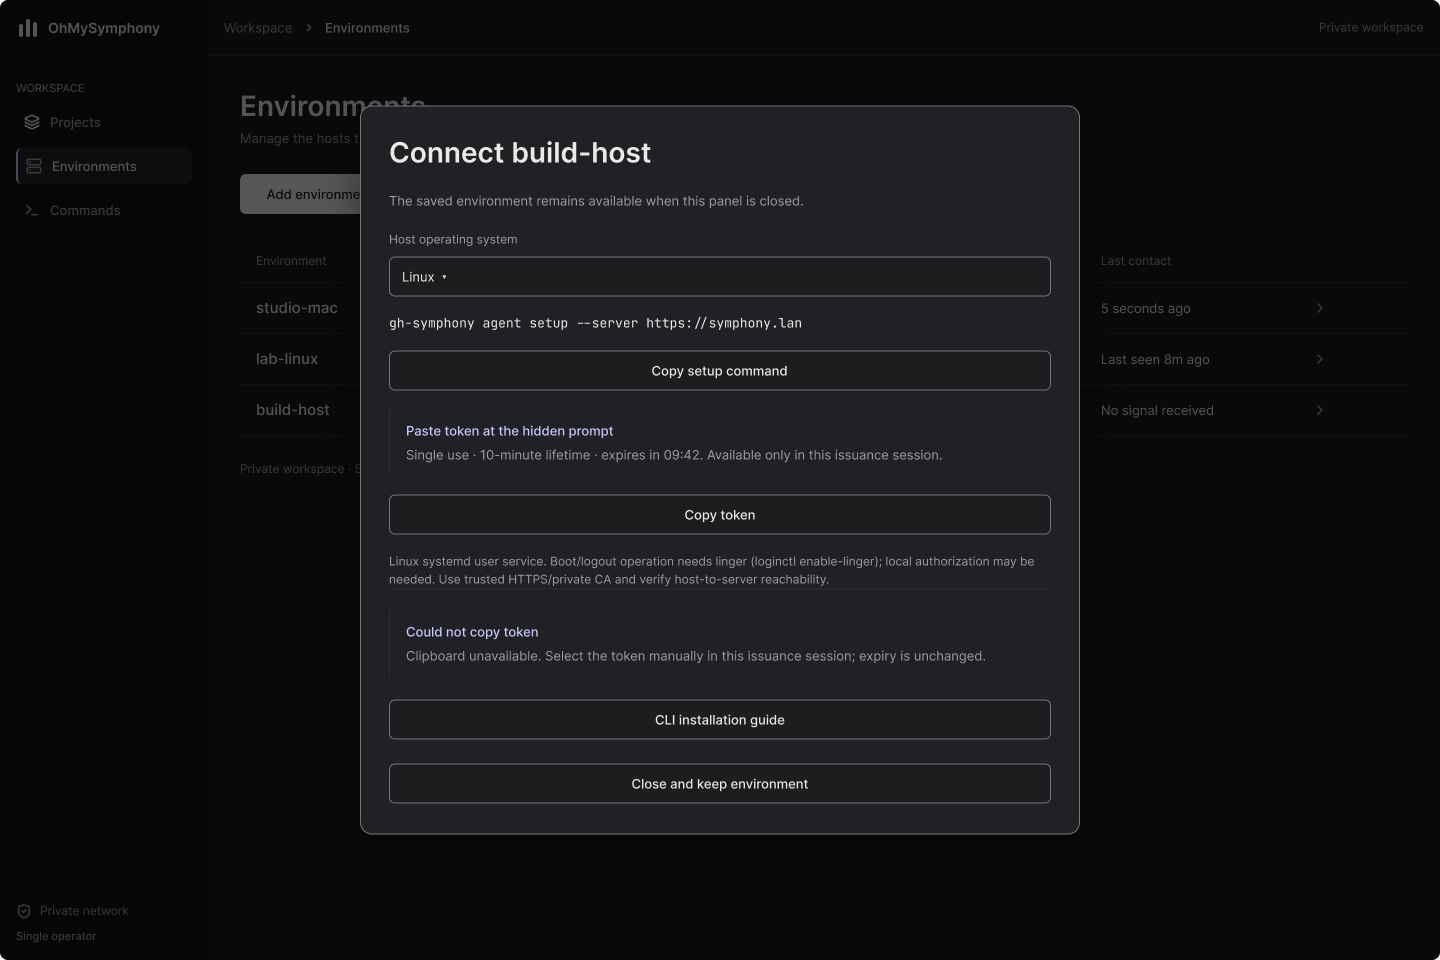
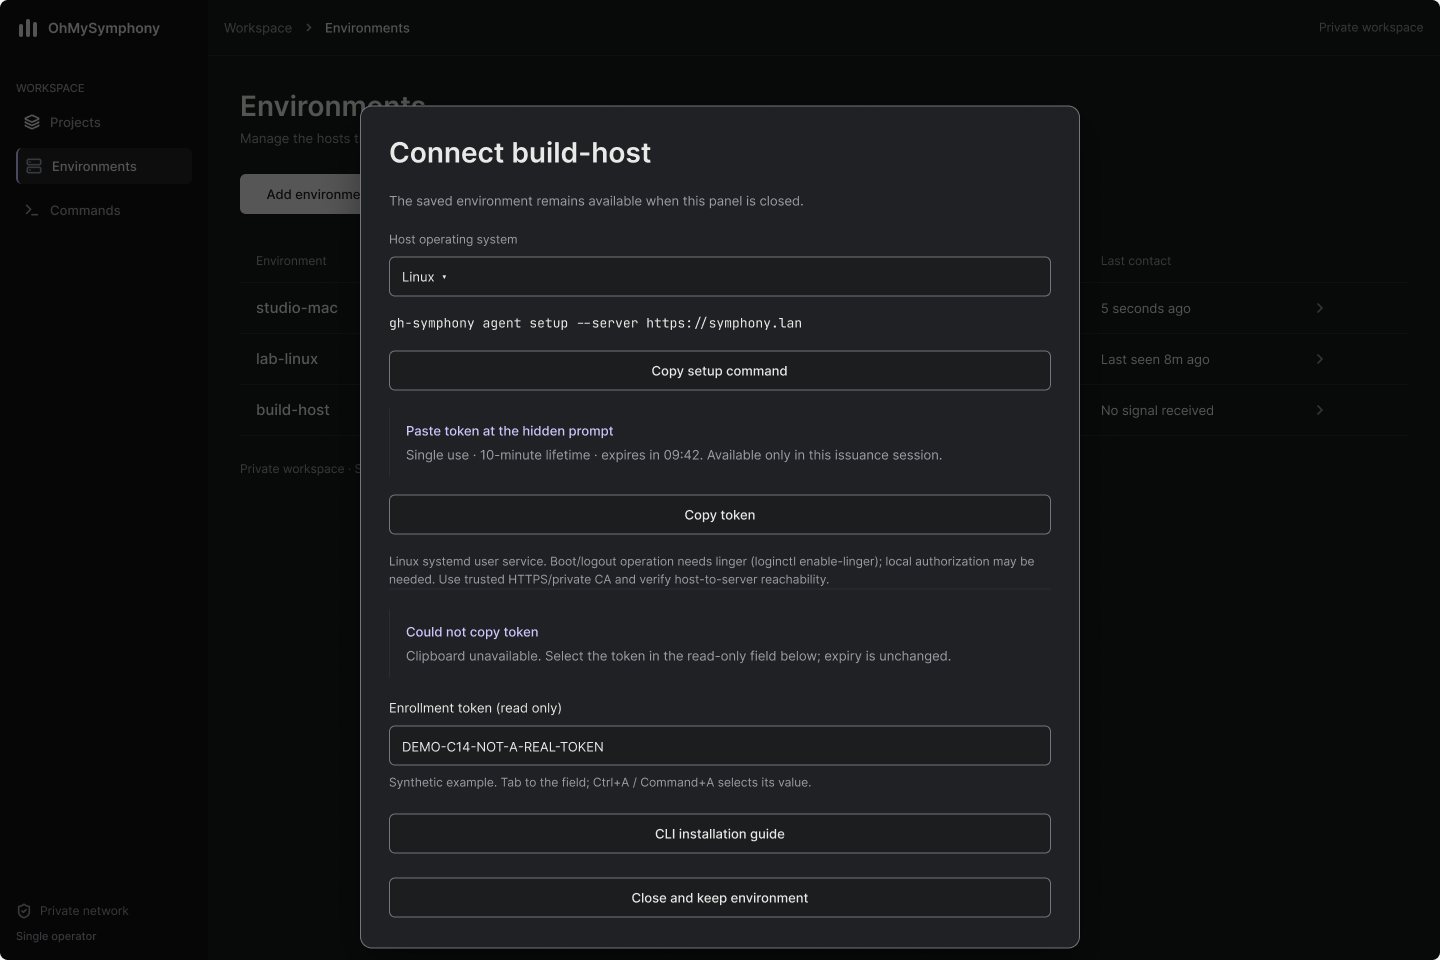
fix(c14): add manual token recovery design

Changed region(s): [[0.25, 0.7188, 0.75, 1.0], [0.4688, 0.6562, 0.6875, 0.6875]]

diff --git a/docs/designs/c14/interaction-contracts.test.ts b/docs/designs/c14/interaction-contracts.test.ts
@@ -19,8 +19,16 @@ interface Screen {
   width: number;
   text: string;
   edges: Edge[];
-  controls: { width: number; height: number }[];
+  controls: { id: string; width: number; height: number }[];
   annotations: { label: string }[];
+  recoveryField?: {
+    id: string;
+    name: string;
+    width: number;
+    height: number;
+    text: string;
+    annotations: { label: string }[];
+  };
 }
 const manifest = JSON.parse(
   readFileSync(new URL("./prototype-evidence.json", import.meta.url), "utf8")
@@ -33,7 +41,11 @@ const screen = (key: string): Screen => {
 };
 const matches = (edge: Edge, event: PrototypeEvent): boolean => {
   if (event.kind === "click") {
-    return edge.trigger.type === "ON_CLICK" && edge.label === event.label;
+    return (
+      edge.trigger.type === "ON_CLICK" &&
+      edge.label === event.label &&
+      (!event.source || edge.source === event.source)
+    );
   }
   if (event.kind === "key") {
     return (
@@ -151,4 +163,34 @@ test("token absence, zero-project success, disabled safety and retained unknown 
     screen("Commands and recovery/start-succeeded").text,
     /running verified/
   );
+});
+
+// Checks actual Figma readback; browser selection/readonly semantics remain a UI gate.
+test("clipboard failure has a labelled synthetic manual token selection surface", () => {
+  const failure = screen("Environments/copy-failure");
+  const field = failure.recoveryField;
+  assert.ok(field, "copy failure must render a token recovery field");
+  assert.equal(field.name, "Component/Field/EnrollmentTokenReadonly");
+  assert.ok(
+    failure.controls.some((control) => control.id === field.id),
+    "recovery field must be present in exported visible controls"
+  );
+  assert.match(failure.text, /Enrollment token \(read only\)/);
+  assert.match(failure.text, /DEMO-C14-NOT-A-REAL-TOKEN/);
+  assert.match(field.text, /Ctrl\+A \/ Command\+A selects its value/);
+  assert.ok(field.width > 0 && field.height >= 24);
+  assert.match(
+    field.annotations.map((a) => a.label).join(" "),
+    /native readonly text input.*focusable and selectable with keyboard\/pointer/
+  );
+  for (const other of screens.filter((s) => s.id !== failure.id)) {
+    assert.ok(
+      !other.text.includes("DEMO-C14-NOT-A-REAL-TOKEN"),
+      `issuance value must not leak into ${other.name}`
+    );
+    assert.ok(
+      !other.recoveryField,
+      `recovery field must not persist in ${other.name}`
+    );
+  }
 });

diff --git a/docs/designs/c14/walkthrough-fixtures.ts b/docs/designs/c14/walkthrough-fixtures.ts
@@ -1,7 +1,7 @@
 /** Design-only event fixtures. These are not management-plane protocol types. */
 export type Child = 1019 | 1020 | 1021 | 1022;
 export type PrototypeEvent =
-  | { kind: "click"; label: string }
+  | { kind: "click"; label: string; source?: string }
   | { kind: "key"; code: number }
   | { kind: "timeout" };
 export interface Step {
@@ -14,7 +14,11 @@ export interface WalkthroughFixture {
   case: string;
   steps: Step[];
 }
-const click = (label: string): PrototypeEvent => ({ kind: "click", label });
+const click = (label: string, source?: string): PrototypeEvent => ({
+  kind: "click",
+  label,
+  ...(source ? { source } : {}),
+});
 const key = (code: number): PrototypeEvent => ({ kind: "key", code });
 const timeout: PrototypeEvent = { kind: "timeout" };
 const step = (from: string, event: PrototypeEvent, to: string): Step => ({
@@ -183,7 +187,8 @@ export const walkthroughs: WalkthroughFixture[] = [
       ),
       step(
         "Commands and recovery/reason-error",
-        click(""),
+        // Blank reason input, not another unlabelled control (for example close).
+        click("", "I99:11725;27:515;25:427"),
         "Commands and recovery/reason-filled"
       ),
       step(

diff --git a/docs/designs/2026-10-06-ohmysymphony-c14-prototype-evidence.md b/docs/designs/2026-10-06-ohmysymphony-c14-prototype-evidence.md
@@ -35,13 +35,19 @@ executed by this prototype.
 | Mobile fleet       | [390 fleet](https://www.figma.com/design/vUCdtVjmYMNWv7YYLRdo3e?node-id=99-7048)              | Stacked identity/state, filters and navigation; this is a long scrolling composition                                                                                                                |
 | Mobile enrollment  | [390 enrolled dialog](https://www.figma.com/design/vUCdtVjmYMNWv7YYLRdo3e?node-id=99-9201)    | Reachable resume and close controls; Escape preserves enrolled status                                                                                                                               |
 
+Tablet/mobile entrypoints show only their first screen at 1024/390; subsequent
+interactions navigate into the shared 1440 graph. These fixed-width compositions
+provide static responsive evidence, not a width-preserving responsive prototype.
+
 Timeouts are accelerated: pending → enrolled after 15 seconds, enrolled →
 connected after 8 seconds, command progress after 6 seconds per stage and log
 loading after 4 seconds. They represent injected server observations, not actual
 heartbeat polling, elapsed token lifetime or verified command execution. The
 10-minute token rule remains the implementation contract. Copy success is a
-feedback composition, not a measured clipboard write. Manual token selection
-on clipboard failure and real expiration fencing need browser/backend execution.
+feedback composition, not a measured clipboard write. The repaired clipboard-failure
+composition includes a labelled read-only synthetic
+token field and Ctrl+A / Command+A guidance. Its native input, focus and actual
+selection behavior, plus real expiration fencing, need browser/backend execution.
 
 The graph preserves pending identity on close/reopen without old token controls,
 keeps enrolled status when closed, and moves the closed enrolled list online on
@@ -55,11 +61,24 @@ local execution remains described as continuing.
 [Exported evidence](c14/prototype-evidence.json) captures actual Figma readback,
 not a locally generated substitute for the UI. It records 72 root IDs, source
 IDs, visible text, control bounds, annotations and **448 navigation edges**.
-The capture timestamp comes from `date -u` and is stored in the artifact. Figma
+The initial capture timestamp comes from `date -u` and is stored in the artifact.
+The copy-failure root was recaptured for review rework; its `recapturedAt`,
+`recoveryField` annotation and `boundsAudit` record the current actual Figma
+readback. Other roots retain their initial capture. Figma
 is mutable; the export and renders freeze the reviewed state rather than
 claiming future file contents are unchanged.
 
-All destinations resolve within the unified page. A final audit checked 4,131 visible text/instance bounds across all 72 screens with no screen-bound overflow at a 1px tolerance. Hidden ancestors were excluded. This does not establish glyph clipping or paint-order correctness; the three rendered frames were reviewed separately. All wired click targets meet
+All destinations resolve within the unified page. The repaired copy-failure root
+adds the existing Graphite Field instance (`107:6057`) with a synthetic token,
+read-only accessible name and keyboard/pointer-selection implementation note.
+Its 97 visible text/instance bounds were rechecked with zero screen overflow;
+the 720×843 dialog and close action fit inside the 1440×960 root. No additional
+route or runtime API was introduced.
+
+The initial full-page audit checked 4,131 visible text/instance bounds across all
+72 screens with no screen-bound overflow at a 1px tolerance. Hidden ancestors were
+excluded. This does not establish glyph clipping or paint-order correctness; the
+three rendered frames were reviewed separately. All wired click targets meet
 24×24 minimum bounds. The audit found a 22px environment-name hit target; it was
 replaced with its 1168×51 row target. Primary mobile/modal buttons generally use
 44px instance frames (40px inner button paints). Inherited mobile navigation,
@@ -73,15 +92,15 @@ row from the pre-create fixture, and retained the closure reason in confirmation
 C14 uses the approved components; these are scoped interaction/presentation
 changes, not a redefinition of management protocols.
 
-| Render / review   | Artifact                         | Observed result                                                                                        |
-| ----------------- | -------------------------------- | ------------------------------------------------------------------------------------------------------ |
-| 1440 copy failure | [PNG](c14/1440-copy-failure.png) | Failure text readable; setup and token controls separated; close remains reachable; no visible overlap |
-| 1024 fleet        | [PNG](c14/1024-fleet.png)        | All six rows, environment-qualified identity, columns, filters and footer visible                      |
-| 390 enrollment    | [PNG](c14/390-enrolled.png)      | Heading, saved-identity instructions, wrapped command and both actions visible within 844px height     |
+| Render / review   | Artifact                         | Observed result                                                                                    |
+| ----------------- | -------------------------------- | -------------------------------------------------------------------------------------------------- |
+| 1440 copy failure | [PNG](c14/1440-copy-failure.png) | Failure text, read-only synthetic token and selection hint readable; close reachable; no overlap   |
+| 1024 fleet        | [PNG](c14/1024-fleet.png)        | All six rows, environment-qualified identity, columns, filters and footer visible                  |
+| 390 enrollment    | [PNG](c14/390-enrolled.png)      | Heading, saved-identity instructions, wrapped command and both actions visible within 844px height |
 
 Render SHA-256 values:
 
[4 lines of base64/hex data omitted]
 
@@ -114,10 +133,12 @@ simulation or actual OS acceptance is claimed here.
 [Typed fixtures](c14/walkthrough-fixtures.ts) specify design events and expected
 screen destinations independently of the exported graph. They identify #1019,
 #1020, #1021 and #1022 consumers; they are intentionally not HTTP or agent protocol
-types. [Seven tests](c14/interaction-contracts.test.ts) integrate these fixtures
+types. [Eight tests](c14/interaction-contracts.test.ts) integrate these fixtures
 with actual exported Figma text/reactions. They check normal, invalid and recovery
 routes, closed-state persistence, absent token controls, zero-project success,
-disabled safety, unknown audit and target bounds. They do not exercise a mocked
+disabled safety, unknown audit, target bounds and the visible manual token recovery
+surface. The blank-reason click is bound to its exported source-node ID, so an
+unrelated unlabelled edge cannot satisfy the fixture. They do not exercise a mocked
 implementation reducer or assert runtime acceptance from synthetic events.
 
 Run from the repository root:
@@ -129,8 +150,8 @@ pnpm exec tsc --noEmit --strict --target ES2022 --module ESNext --moduleResoluti
 
 Both pass. Node's module-detection warning is harmless for this standalone design
 fixture; no runtime package/configuration is added. Tests are separate from
-workspace package discovery, so the explicit command above is required in
-addition to `pnpm test`.
+workspace package discovery and Vitest coverage. The CI Test job now runs the
+explicit Node command above; run it locally in addition to `pnpm test`.
 
 Each test was mutation-checked by editing the exported evidence, running only
 the affected test and restoring the original bytes:
@@ -145,7 +166,12 @@ the affected test and restoring the original bytes:
 | snapshot integrity | Set Add environment target height to 12px | Failed small-target assertion      |
 | token absence      | Add Copy token to reopened visible text   | Failed old-token-control assertion |
 
-All seven then pass with the unmodified final snapshot. These mutations prove
+The review rework additionally removes the recovery field from the export to
+prove the new manual-selection test fails, and replaces the blank-reason edge
+source to prove the closure fixture fails despite retaining its blank label and
+destination. Both mutations are restored before verification.
+
+All eight then pass with the unmodified final snapshot. These mutations prove
 that the assertions execute and detect their prohibited graph/text conditions;
 they do not prove implementation behavior that is outside the exported artifact.
 

diff --git a/docs/designs/2026-10-06-ohmysymphony-c14-interaction-contracts.md b/docs/designs/2026-10-06-ohmysymphony-c14-interaction-contracts.md
@@ -17,15 +17,18 @@ tracker adapters, per-project scheduling and execution retain their ownership.
 existing prepared projects; no UI provisioning or global scheduler is added.
 
 Slice-owned artifacts are this contract, a dated prototype/evidence manifest
-under `docs/designs/`, annotations/reactions on the existing Graphite Figma pages,
+under `docs/designs/`, annotations/reactions on the unified C14 Figma page,
 related design verification fixtures, the documentation index and a CLI patch
 changeset. No runtime package or protocol is implemented here. In particular,
 `packages/control-plane` remains the shipped per-project web server. New fleet
 UI implementation belongs to #1019–#1022 and must preserve the approved service
 and protocol boundaries rather than treating this design as a runtime API.
 
-Use existing screen roots on pages `23:379`–`23:383`, dialog/feedback components
-on `23:375`, and responsive rules on `23:372` in
+The authoritative interaction graph is the
+[C14 unified page `99:5948`](https://www.figma.com/design/vUCdtVjmYMNWv7YYLRdo3e?node-id=99-5948),
+with 72 same-page screen copies because Figma rejects cross-page NAVIGATE actions.
+Original pages `23:379`–`23:383` remain the visual/component mapping reference,
+with dialog/feedback components on `23:375` and responsive rules on `23:372` in
 [the approved file](https://www.figma.com/design/vUCdtVjmYMNWv7YYLRdo3e).
 Preserve Graphite foundations and component/widget mapping. Reactions and
 annotations are substantive C14 additions; the prior C22 approval does not
@@ -83,7 +86,14 @@ are separate controls. Commands contain no token argument: use the approved
 hidden prompt or token-stdin contract. Design fixtures contain synthetic values
 only, never secrets. Copy success says which item was copied; failure says
 “Could not copy” and offers accessible manual selection in the current issuance
-session. Failure does not announce success, dismiss the dialog or extend expiry.
+session. The copy-failure composition includes a native read-only field named
+“Enrollment token (read only)” with a clearly synthetic example value and
+associated selection hint. In the browser, Tab reaches the field and
+Ctrl+A / Command+A selects its value; pointer selection also works. Keep it
+focusable rather than disabled. Announce the failure and selection guidance,
+never the token value, through the error/status region. The prototype shows
+this surface but does not execute native selection. Failure does not announce
+success, dismiss the dialog or extend expiry.
 
 Closing discards the displayed token. Reopen shows the saved environment and
 regeneration action without fetching or recovering the old token. Expiry disables

diff --git a/AGENT_TEST.md b/AGENT_TEST.md
@@ -36,6 +36,13 @@ control-plane frontend source is present in `coverage/coverage-final.json`. CI
 uploads the complete directory as the `coverage-report` artifact even if a
 later step fails.
 
+C14 design artifact verification runs separately in the CI Test job:
+`node --experimental-strip-types --test docs/designs/c14/interaction-contracts.test.ts`.
+It checks typed walkthrough expectations against frozen Figma readback, including
+clipboard failure recovery and token absence. Run it locally after editing
+`docs/designs/c14/` evidence or fixtures; it supplies prototype evidence, not runtime
+or OS acceptance, and is outside package Vitest coverage.
+
 ## Local E2E Tests (without Docker)
 
 How to run E2E tests directly on the local machine without Docker. All state is stored under `.runtime/`.
